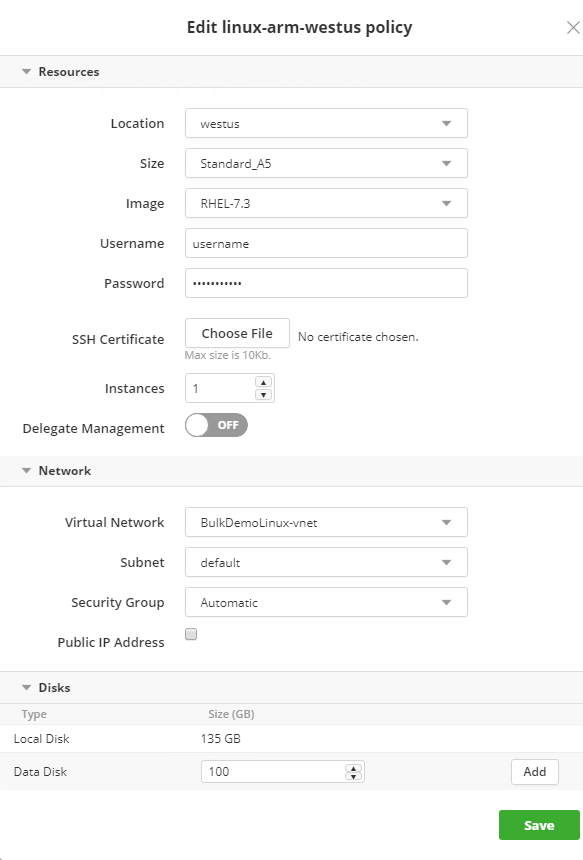
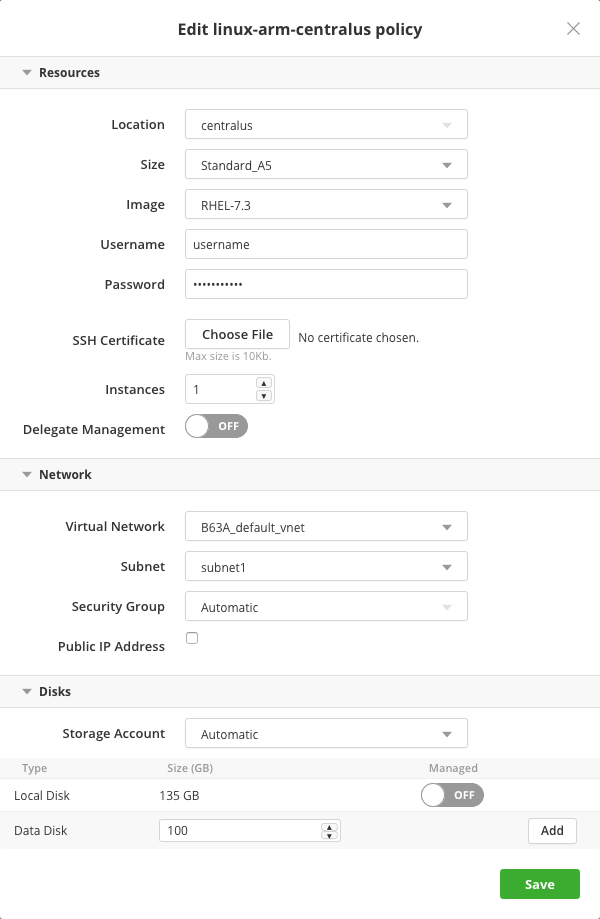
Include resource providers, managed disks and availability sets support

diff --git a/Cloud Application Manager/Deploying Anywhere/using-microsoft-azure.md b/Cloud Application Manager/Deploying Anywhere/using-microsoft-azure.md
@@ -62,12 +62,18 @@ You need an Microsoft Azure subscription to be able to consume Azure services. F
     * Role: **Owner** (If you do not see the Owner role, you will need to talk to your administrator.)
     * Assign Access to: **Azure AD user, group or application**
     * Select: **CenturyLink-CAM**
-12. Return to the *Azure Active Directory* panel, select *App Registrations* then *CenturyLink-CAM* then *Settings* and finally *Keys*.
-13. Set a Key with the following values:
+12. Now select *Resource providers* in your subscription and **Register** the following providers:
+    * *Microsoft.Compute*
+    * *Microsoft.Network*
+    * *Microsoft.Storage*
+    
+    For more information, please refer to [Azure help](https://docs.microsoft.com/en-us/azure/azure-resource-manager/resource-manager-supported-services#portal)
+13. Return to the *Azure Active Directory* panel, select *App Registrations* then *CenturyLink-CAM* then *Settings* and finally *Keys*.
+14. Set a Key with the following values:
     * Description: **CAM-App-Key**
     * Expires: **Never Expires**
-14. Upon saving a **Key** value will be generated. Copy and keep the key (aka the **Secret**) value as you won't see it anymore once you navigate away.
-15. Input your Microsoft Azure Provider for an existing account as listed below:
+15. Upon saving a **Key** value will be generated. Copy and keep the key (aka the **Secret**) value as you won't see it anymore once you navigate away.
+16. Input your Microsoft Azure Provider for an existing account as listed below:
     * Subscription ID: **_Azure Subscription ID_**
     * Application ID: **_Application ID_**
     * Secret: **_Key value_**
@@ -152,14 +158,20 @@ To deploy a virtual machine with compute services you can edit one of windows or
 | Username | Specify a username to be able to RDP or SSH into the instance directly. |
 | Password | Specify a password to be able to RDP or SSH into the instance directly. |
 | SSH Certificate | Only in Linux machines you can specify a certificate to access via ssh. |
-| Instances | Specify the number of instances to spawn. Note that at this time, we don’t autoscale or load balance instances. To enable that, you have to manually configure these options in [Azure](https://docs.microsoft.com/en-us/azure/cloud-services/cloud-services-how-to-scale-portal). |
+| Instances | Specify the number of instances to spawn. If you increase it to a value higher than 1, a **High Availability** toggle will appear below that you can enable to use Azure availability sets for high availability support. Note that at this time, we don’t autoscale or load balance instances. To enable that, you have to manually configure these options in [Azure](https://docs.microsoft.com/en-us/azure/cloud-services/cloud-services-how-to-scale-portal) |
 | Delegate Management  | Delegate management to CenturyLink.  |
+
+When you increase the number of instances, the High Availability toggle appears:
+
+![High Availability toggle visible](../../images/cloud-application-manager/microsoft-azure-compute-deployment-options-4-ha.png)
+
+For more information, see the [Azure help](https://docs.microsoft.com/en-us/azure/virtual-machines/windows/tutorial-availability-sets#availability-set-overview)
 
 #### Network
 
 | Option | Description |
 |--------|-------------|
-| Virtual Network |	This network has to be created before because Cloud Application Manager doesn't deploy any. |
+| Virtual Network | Choose the network to deploy to among the list of available networks. |
 | Subnet | This subnet is the resource related to  the virtual machine's network interface. Actually a virtual network is not used at deployment time. |
 |Security Group | Filter incoming and outgoing traffic for the virtual machine based on a set of rules. Multiple security groups in a zone can be selected for a virtual machine. For more information, see [Security Groups](https://docs.microsoft.com/en-us/azure/virtual-network/security-overview). |
 |Public IP Address   | The public IP Address exposes our server to the public internet where other applications can access it.|
@@ -168,9 +180,11 @@ To deploy a virtual machine with compute services you can edit one of windows or
 
 | Option | Description |
 |--------|-------------|
-| Data Disk   |  Storage size for data in addition to the Local Disk|
+| Storage Account | Select the Storage Account to use among the existing ones or Automatic (it will create a new one)|
+| Local Disk | When **Managed** toggle is ON it will use managed disks |
+| Data Disk | Storage size for data in addition to the Local Disk|
 
-If you can't create any policy box on Windows Azure provider probably you have to create a virtual network from azure portal or you may deploy a new one with a template as we describe in following section.
+If you can't create any policy box on Windows Azure provider probably you have to create a virtual network from Azure portal or you may deploy a new one with a template as we describe in following section. If you choose to use an Azure provider optimized by CenturyLink either [existing](Cloud Optimization/partner-cloud-integration-azure-existing.md) or [new](Cloud Optimization/partner-cloud-integration-azure-new.md) we will create a default network for you.
 
 #### Microsoft Azure ARM Template Deployment Options
 
